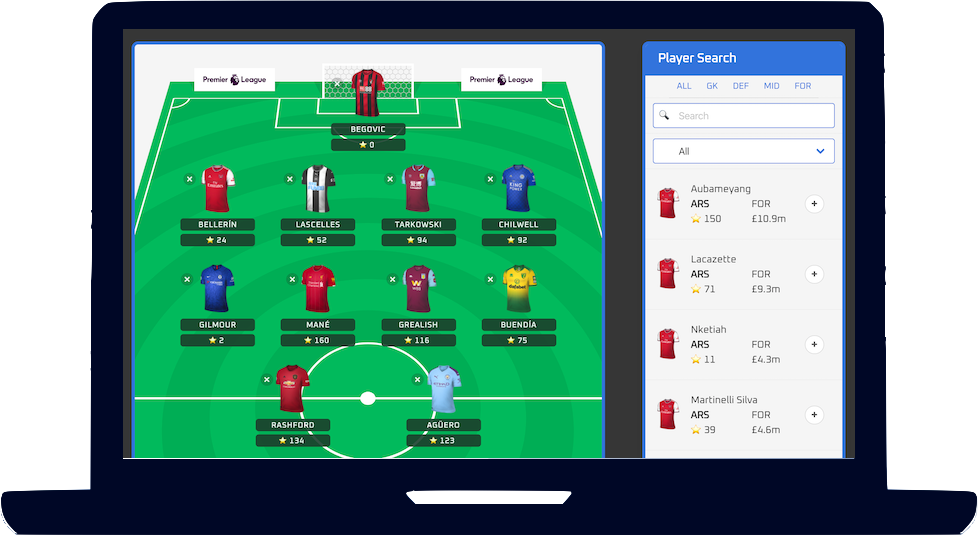
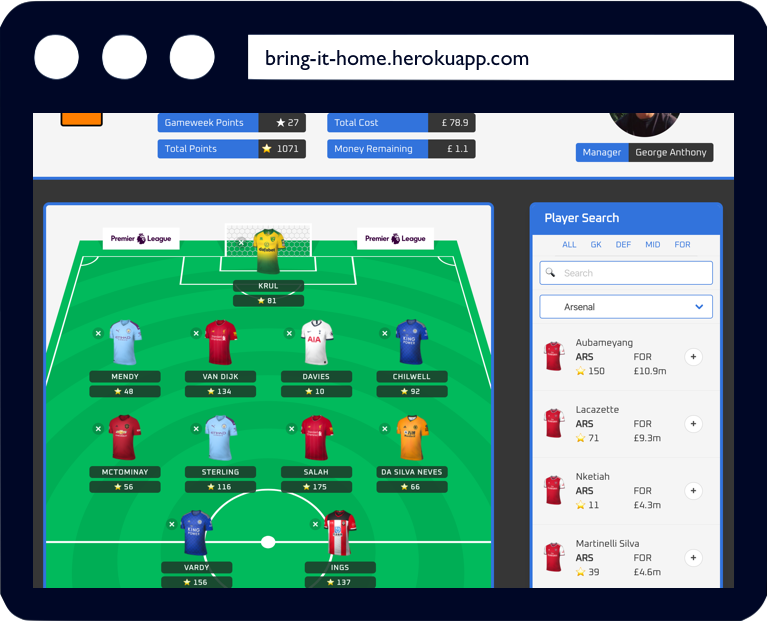
updated portfolio

diff --git a/index.html b/index.html
@@ -136,7 +136,7 @@
       <hr />
       <div class="project">
         <div class="laptop">
-          <img src="assets/BringItHomeWeb.png" class="project-img">
+          <a target="_blank" href="http://bring-it-home.herokuapp.com/"><img src="assets/BringItHome2.png" class="project-img"></a>
         </div>
         <div class="project-description">
 
@@ -187,7 +187,7 @@
 
       <div class="project">
         <div class="laptop" id="tablet-show">
-          <img src="assets/OutAndAboutWeb.png" class="project-img">
+          <a target="_blank" href="https://out-and-about-activities.herokuapp.com/"><img src="assets/OutAndAbout2.png" class="project-img"></a>
         </div>
         <div class="project-description">
 
@@ -235,13 +235,13 @@
           <a class="button" target="_blank" href="https://github.com/georgeanthony33/sei-group-project"><i class="devicon-github-original"></i>View on GitHub</a>
         </div>
         <div class="laptop" id="tablet-hide">
-          <img src="assets/OutAndAboutWeb.png" class="project-img">
+          <a target="_blank" href="https://out-and-about-activities.herokuapp.com/"><img src="assets/OutAndAbout2.png" class="project-img"></a>
         </div>
       </div>
 
       <div class="project">
         <div class="laptop">
-          <img src="assets/FunFindrWeb.png" class="project-img">
+          <a target="_blank" href="https://fun-findr.herokuapp.com/"><img src="assets/FunFindr2.png" class="project-img"></a>
         </div>
         <div class="project-description">
 
@@ -283,7 +283,7 @@
 
       <div class="project">
         <div class="laptop" id="tablet-show">
-          <img src="assets/PacManWeb.png" class="project-img">
+          <a target="_blank" href="https://georgeanthony33.github.io/sei-project-01/"><img src="assets/PacMan2.png" class="project-img"></a>
         </div>
         <div class="project-description">
 
@@ -306,14 +306,14 @@
             I built Pac-Man with a focus on replicating the game to the true-life version through ghost-specific AI - each ghost behaves differently in both Chase and Scatter modes - together with ghost Frightened mode where Pac-Man can capture ghosts after eating an Energiser.
           </p>
           <p>
-            PacMan is also able to move automatically between each key press and CSS animation provides smooth in-game movement
+            PacMan also moves automatically between each key press with CSS animation providing smooth in-game movement.
           </p>
 
           <a class="button" target="_blank" href="https://georgeanthony33.github.io/sei-project-01/"><i class="fas fa-link"></i>Open Project</a>
           <a class="button" target="_blank" href="https://github.com/georgeanthony33/sei-project-01"><i class="devicon-github-original"></i>View on GitHub</a>
         </div>
         <div class="laptop" id="tablet-hide">
-          <img src="assets/PacManWeb.png" class="project-img">
+          <a target="_blank" href="https://georgeanthony33.github.io/sei-project-01/"><img src="assets/PacMan2.png" class="project-img"></a>
         </div>
       </div>
 
@@ -337,9 +337,10 @@
         </div>
         <h5>General Assembly (Dec 2019 - Mar 2020)</h5>
         <p>
-          This twelve-week course has been one of the most enjoyable and unforgettable experiences of my life. A decision to change career is not one that I made lightly; however, from day one, I knew I had made the right decision.
+          This twelve-week course has been one of the most enjoyable and unforgettable experiences of my life. My love for learning combined with a natural understanding of logic and programming fundamentals has allowed me to develop my technical skills at an accelerated rate.
         </p>
-        <p>My love for learning combined with my technical prowess has allowed me to develop my technical skills at an accelerated rate. I have finished the course with a great sense of pride in my achievements and my projects, and an insatiable appetite to continue to learn more.
+        <p>
+          Together with my technical development, the course has given me the opportunity to work with my classmates on various projects, giving me an acute awareness for the value of teamwork and the sharing of knowledge. I have finished the course with a great sense of pride in my achievements and my projects, and an insatiable appetite to continue to learn more.
         </p>
       </div>
     </div>

diff --git a/styles/main.css b/styles/main.css
@@ -192,7 +192,7 @@ h3 {
 }
 
 p {
-  font-size: 20px;
+  font-size: 19px;
 }
 
 .about {
@@ -248,7 +248,7 @@ img.roots {
 
 .main2 {
   margin-top: 22px;
-  padding: 0 70px;
+  padding: 0 80px;
   text-align: center;
   background-color: rgb(150, 192, 255);
   color: #000727;
@@ -270,12 +270,14 @@ img.roots {
 
 .project {
   display: flex;
+  justify-content: space-between;
   margin-bottom: 50px;
   margin-top: 100px;
 }
 
 div.laptop {
-  max-width: 600px;
+  width: 50%;
+  max-width: 500px;
 }
 
 .project:nth-child(odd) > .laptop {
@@ -303,7 +305,7 @@ img.project-img {
 }
 
 div.project-description {
-  width: 41%;
+  width: 50%;
   text-align: left;
 }
 
@@ -351,7 +353,7 @@ br {
   background-color: rgb(150, 192, 255);
   color: #000727;
   border: #000727 solid 2px;
-  font-size: 20px;
+  font-size: 19px;
 }
 
 .button:hover {
@@ -384,7 +386,7 @@ img.rocks {
 
 .main3 {
   margin-top: -80px;
-  padding: 0 80px;
+  padding: 0 90px;
   padding-bottom: 50px;
   text-align: center;
   background-image: linear-gradient(#000727, #00041f);
